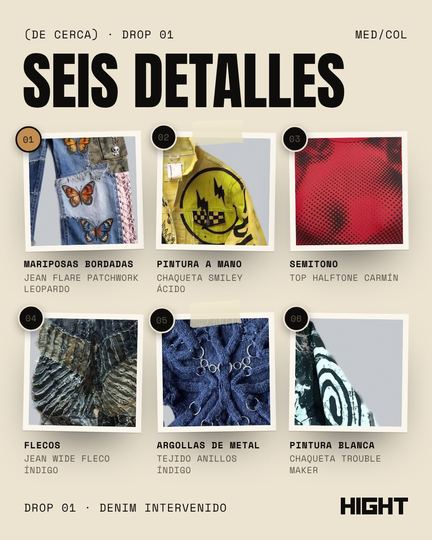
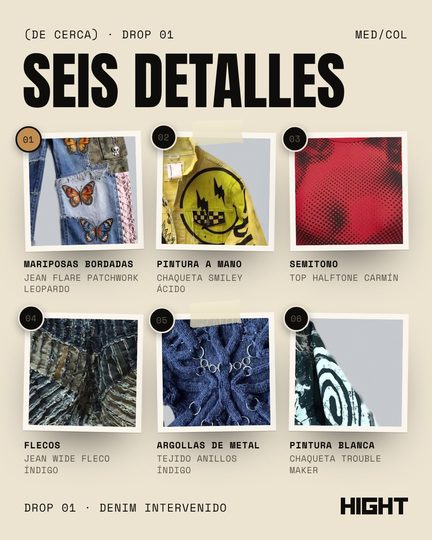
Branding Book con la Chaqueta Blood Rose real
Posts 02 y 08 y el detalle de los flecos nuevos; la lista de pendientes ya no pide la foto
de la chaqueta, solo las espaldas.

Claude-Session: https://claude.ai/code/session_01VemMYMk8Qmo9eMWquZXv9R

Changed region(s): [[0.0602, 0.5926, 0.331, 0.8]]

diff --git a/docs/branding-book/index.html b/docs/branding-book/index.html
@@ -1393,7 +1393,7 @@ Prendas intervenidas a mano y piezas de archivo.
         <li>Escribir de dónde viene el nombre Hight y cómo se pronuncia, para que todo el equipo lo cuente igual.</li>
         <li>Aprobar los textos de marca (para quién, lo que no es y los lemas): el manual de octubre los dejó como borrador.</li>
         <li>El manual de octubre (design-system/ en el repositorio) sigue con la paleta y las letras de antes. Este libro lo reemplaza en color, tipografía, fotografía y motivos.</li>
-        <li>Fotos que faltan: la foto real de la Chaqueta Blood Rose y las espaldas de las prendas.</li>
+        <li>Fotos que faltan: las espaldas de las prendas. Solo la Chaqueta Trouble Maker tiene la suya.</li>
       </ul>
     </div>
 
